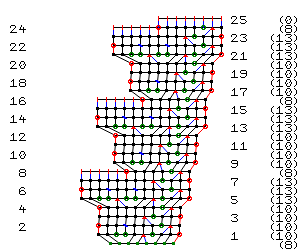
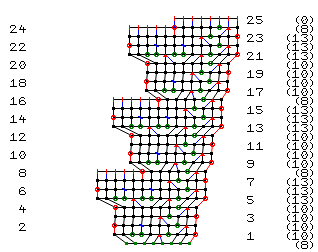
we have breaks now!

diff --git a/main.cpp b/main.cpp
@@ -778,8 +778,8 @@ int main(int argc, char* argv[])
                     xcoord = xcoord + 9 * dxcoord;
                 }
             } else if(it->IsBroken()) {
-                LOG("Breaks are not implemented! Dealing with row %d @ %d", row.number, row.srcLine);
-                abort();
+                LOG("broken, resetting 'first'");
+                first = true; // I guess we're done here?
                 // dot.disconnected = true;
             }
             ++it;
@@ -824,40 +824,58 @@ int main(int argc, char* argv[])
 
     LOG("Applying forces");
     for(int rowy = 1; rowy < dots.size(); ++rowy) {
-        // TODO group continuous chunks, c.f. BREAK
+        // group continuous (unbroken) stitches
+        int group_start = 0, group_end = 0, group_num = 0;
+        while(group_end < numDots[rowy])
+        {
+            ++group_num;
+            group_end = group_start + 1;
+            LOG("group_end = %d", group_end);
+            while(group_end < numDots[rowy] && !dots[rowy][group_end].disconnected) ++group_end;
 
-        float force = 0.f;
-        int denominator = 0;
-        for(int rowx = 0; rowx < numDots[rowy]; ++rowx) {
-            if(dots[rowy][rowx].skip) {
-                continue;
+            LOG("-------------------")
+            LOG("Group %d from %d to %d (out of %d)", group_num, group_start, group_end, numDots[rowy]);
+
+            float force = 0.f;
+            int denominator = 0;
+            for(int rowx = group_start; rowx < group_end; ++rowx) {
+                if(dots[rowy][rowx].skip) {
+                    continue;
+                }
+                float lforce = 0.f;
+                int ldenom = 0;
+                auto& self = dots[rowy][rowx];
+                float myX = self.x;
+                auto lineit = self.connectedTo.begin();
+                for(; lineit != self.connectedTo.end(); ++lineit)
+                {
+                    //fprintf(stderr, "%d... ", (*lineit)->x);
+                    lforce += (*lineit)->x;
+                    ldenom += 1;
+                }
+                if(ldenom == 0) continue;
+                force += lforce / ldenom - myX;
+                denominator += 1.f;
+                //fprintf(stderr, "%f ", lforce/ldenom - myX);
             }
-            float lforce = 0.f;
-            int ldenom = 0;
-            auto& self = dots[rowy][rowx];
-            float myX = self.x;
-            auto lineit = self.connectedTo.begin();
-            for(; lineit != self.connectedTo.end(); ++lineit)
+            if(denominator > 0)
             {
-                //fprintf(stderr, "%d... ", (*lineit)->x);
-                lforce += (*lineit)->x;
-                ldenom += 1;
+                force = force / denominator;
+                //fprintf(stderr, "\n");
+                int adj = int(round(force));
+                LOG("Force on line %d is %f ~=%d", rowy, force, adj);
+                for(int rowx = group_start; rowx < group_end; ++rowx) {
+                    //LOG("%d -> %d", dots[rowy][rowx].x, dots[rowy][rowx].x + adj);
+                    dots[rowy][rowx].x += adj;
+                }
             }
-            if(ldenom == 0) continue;
-            force += lforce / ldenom - myX;
-            denominator += 1.f;
-            //fprintf(stderr, "%f ", lforce/ldenom - myX);
-        }
-        if(denominator == 0) continue;
-        force = force / denominator;
-        //fprintf(stderr, "\n");
-        int adj = int(round(force));
-        LOG("Force on line %d is %f ~=%d", rowy, force, adj);
-        for(int rowx = 0; rowx < numDots[rowy]; ++rowx) {
-            //LOG("%d -> %d", dots[rowy][rowx].x, dots[rowy][rowx].x + adj);
-            dots[rowy][rowx].x += adj;
+
+            // to next group!
+            group_start = group_end;
+            LOG("group_start = %d", group_start);
         }
     }
+    LOG("--------------------");
     LOG("dots = ");
     for(int rowy = 0; rowy < dots.size(); ++rowy) {
         for(int rowx = 0; rowx < numDots[rowy]; ++rowx) {

diff --git a/samples/README.md b/samples/README.md
@@ -72,7 +72,7 @@ k 10 turn
 p 1 * yo 1 p 1 * 9 turn
 k 19 turn
 p 19 turn
-k 4 bo 11 k 4 turn
+k 4 bo 11 / k 4 turn
 p 4 / p 4 turn
 k 1 k2tog 1 k 1 / k 1 SSK 1 k 1 turn
 p 1 p2tog 1 / SSP 1 p 1 turn
@@ -141,8 +141,8 @@ pu 1 * p 1 k 1 * 3 p 1 turn
 5: s 36 join
 #6: s 18 !turn - 2 !return s 16 turn
 #7: s 16 !turn - 2 !return s 18 turn
-6: s 18 !turn  sk 2  !return s 16 turn
-7: s 16 !turn  sk 2  !return s 18 turn
+6: s 18 !turn  sk 2 / !return s 16 turn
+7: s 16 !turn  /  !return s 18 turn
 8: s 18 ch 2 s 16 join
 9: s 18  s 18 join
 10: * s2tog 1 s 2 * 3 s 6    * s2tog 1 s 2 * 3 s 6 join
@@ -163,10 +163,115 @@ co 10 turn
  7: | 1 Tss 1 Xss 3 Tss 1 || 1
  8: | 1 Xss 4 || 1
  9: | 1 Tss 1 Xss 3 Tss 1 || 1
-10: | 1 Tss 1 || 1  - 4      | 1  Tss 1 || 1
-11: | 1 Tss 1 || 1  - 4      | 1  Tss 1 || 1
-12: bo 3 - 4 bo 3
+10: | 1 Tss 1 || 1  bo 4 /      | 1  Tss 1 || 1
+11: | 1 Tss 1 || 1  /      | 1  Tss 1 || 1
+12: bo 3 / bo 3
 ```
 
 ![samples/tunisianx.png](tunisianx.png)
+
+# edge
+
+```
+co 8 turn
+1: pu 1 k 2 yo 1 k2tog 1 k 1 yo 2 k 2 turn
+2: pu 1 k 2 p 1 k 3 yo 1 k2tog 1 k 1 turn
+3: pu 1 k 2 yo 1 k2tog 1 k 5 turn
+4: pu 1 k 6 yo 1 k2tog 1 k 1 turn
+5: pu 1 k 2 yo 1 k2tog 1 k 1 yo 2 k2tog 1 yo 2 k 2 turn
+6: pu 1 k 2 p 1 k 2 p 1 k 3 yo 1 k2tog 1 k 1 turn
+7: pu 1 k 2 yo 1 k2tog 1 k 8 turn
+8: bo 5 pu 1 k 4 yo 1 k2tog 1 k 1 turn
+
+second rep:
+1: pu 1 k 2 yo 1 k2tog 1 k 1 yo 2 k 2 turn
+2: pu 1 k 2 p 1 k 3 yo 1 k2tog 1 k 1 turn
+3: pu 1 k 2 yo 1 k2tog 1 k 5 turn
+4: pu 1 k 6 yo 1 k2tog 1 k 1 turn
+5: pu 1 k 2 yo 1 k2tog 1 k 1 yo 2 k2tog 1 yo 2 k 2 turn
+6: pu 1 k 2 p 1 k 2 p 1 k 3 yo 1 k2tog 1 k 1 turn
+7: pu 1 k 2 yo 1 k2tog 1 k 8 turn
+8: bo 5 pu 1 k 4 yo 1 k2tog 1 k 1 turn
+
+third rep:
+1: pu 1 k 2 yo 1 k2tog 1 k 1 yo 2 k 2 turn
+2: pu 1 k 2 p 1 k 3 yo 1 k2tog 1 k 1 turn
+3: pu 1 k 2 yo 1 k2tog 1 k 5 turn
+4: pu 1 k 6 yo 1 k2tog 1 k 1 turn
+5: pu 1 k 2 yo 1 k2tog 1 k 1 yo 2 k2tog 1 yo 2 k 2 turn
+6: pu 1 k 2 p 1 k 2 p 1 k 3 yo 1 k2tog 1 k 1 turn
+7: pu 1 k 2 yo 1 k2tog 1 k 8 turn
+8: bo 5 pu 1 k 4 yo 1 k2tog 1 k 1 turn
+
+bo 8
+```
+
+![nutests/edge.png](edge.png)
+
+# incs
+
+```
+co 8 turn
+1: k 8 turn
+2: p 8 turn
+3: pu 1 k 1 * k 1 kfb * 2 k 2 turn
+4: p 10 turn
+5: pu 1 * k 1 k2tog 1 k 1 * 2 k 1 turn
+6: p 8 !warn turn
+
+7: k 3 M 1 k 2 M 1 k 3 return
+8: k 3 M 1 k 4 M 1 k 3 return
+9: k 2 CDD 1 k 2 CDD 1 k 2 return
+
+bo 8
+```
+
+![nutests/incs.png](incs.png)
+
+# markers
+
+```
+co 8 turn
+pu  k  !B k 4 !A k 2 turn
+pu  p  !b p 4 !A p 2 !pattern-change turn
+!pattern-change pu 1 * p 1 k 1 * 3 p 1 turn
+pu 1 * p 1 k 1 * 3 p 1 turn
+
+# begin short rows
+10: k 6 turn
+    p 4 turn
+    k 6 turn
+    p 8 turn
+
+# bind offs?
+20: bo 2 k 6 turn
+    p 6 turn
+    bo 2 pu k 3 turn
+    pu p 3 turn
+    pu k 3 turn
+    bo 2 pu p  turn
+    k2tog turn
+    bo
+```
+
+![nutests/markers.png](markers.png)
+
+# ret
+
+```
+
+# round / tunisian
+30: co 8 turn
+    Tss 8 return
+    Tss 6 return
+    Tss 4 return
+    Tss 2 return
+    Tss 8 return
+    bo 2 Tss 6 return
+    Tss 4 return
+    Tss 2 return
+    bo 6
+```
+
+![nutests/ret.png](ret.png)
 
